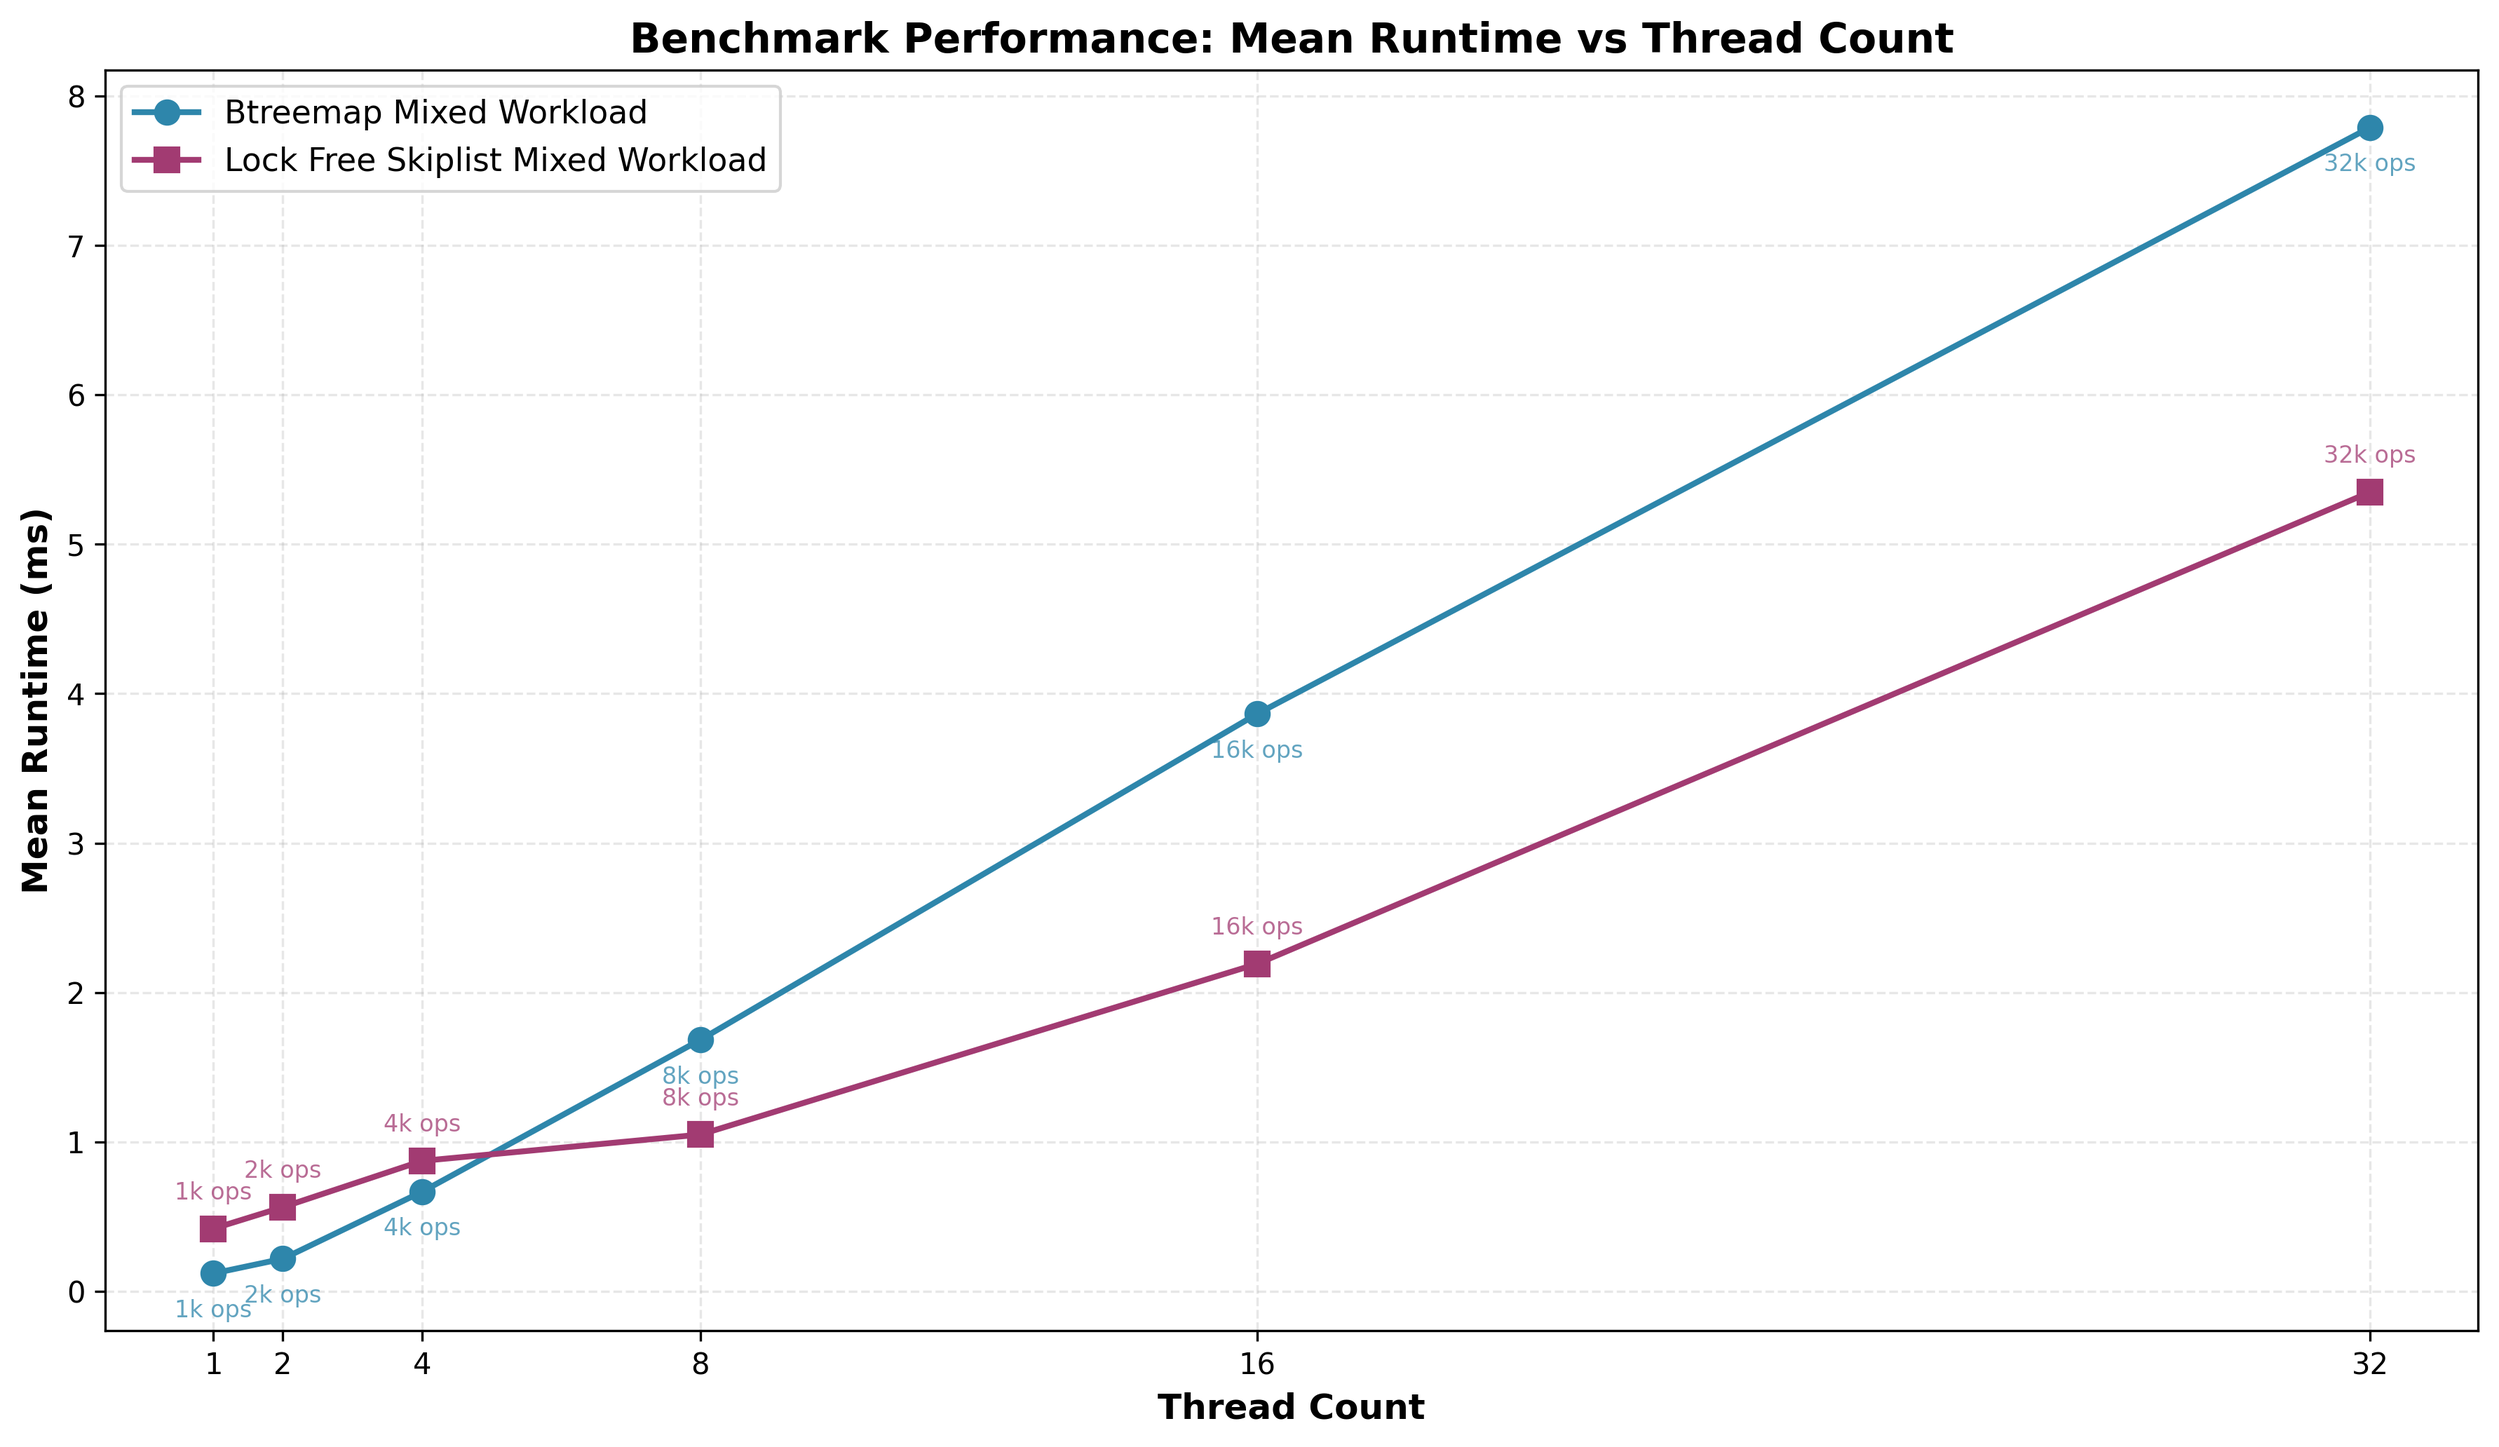
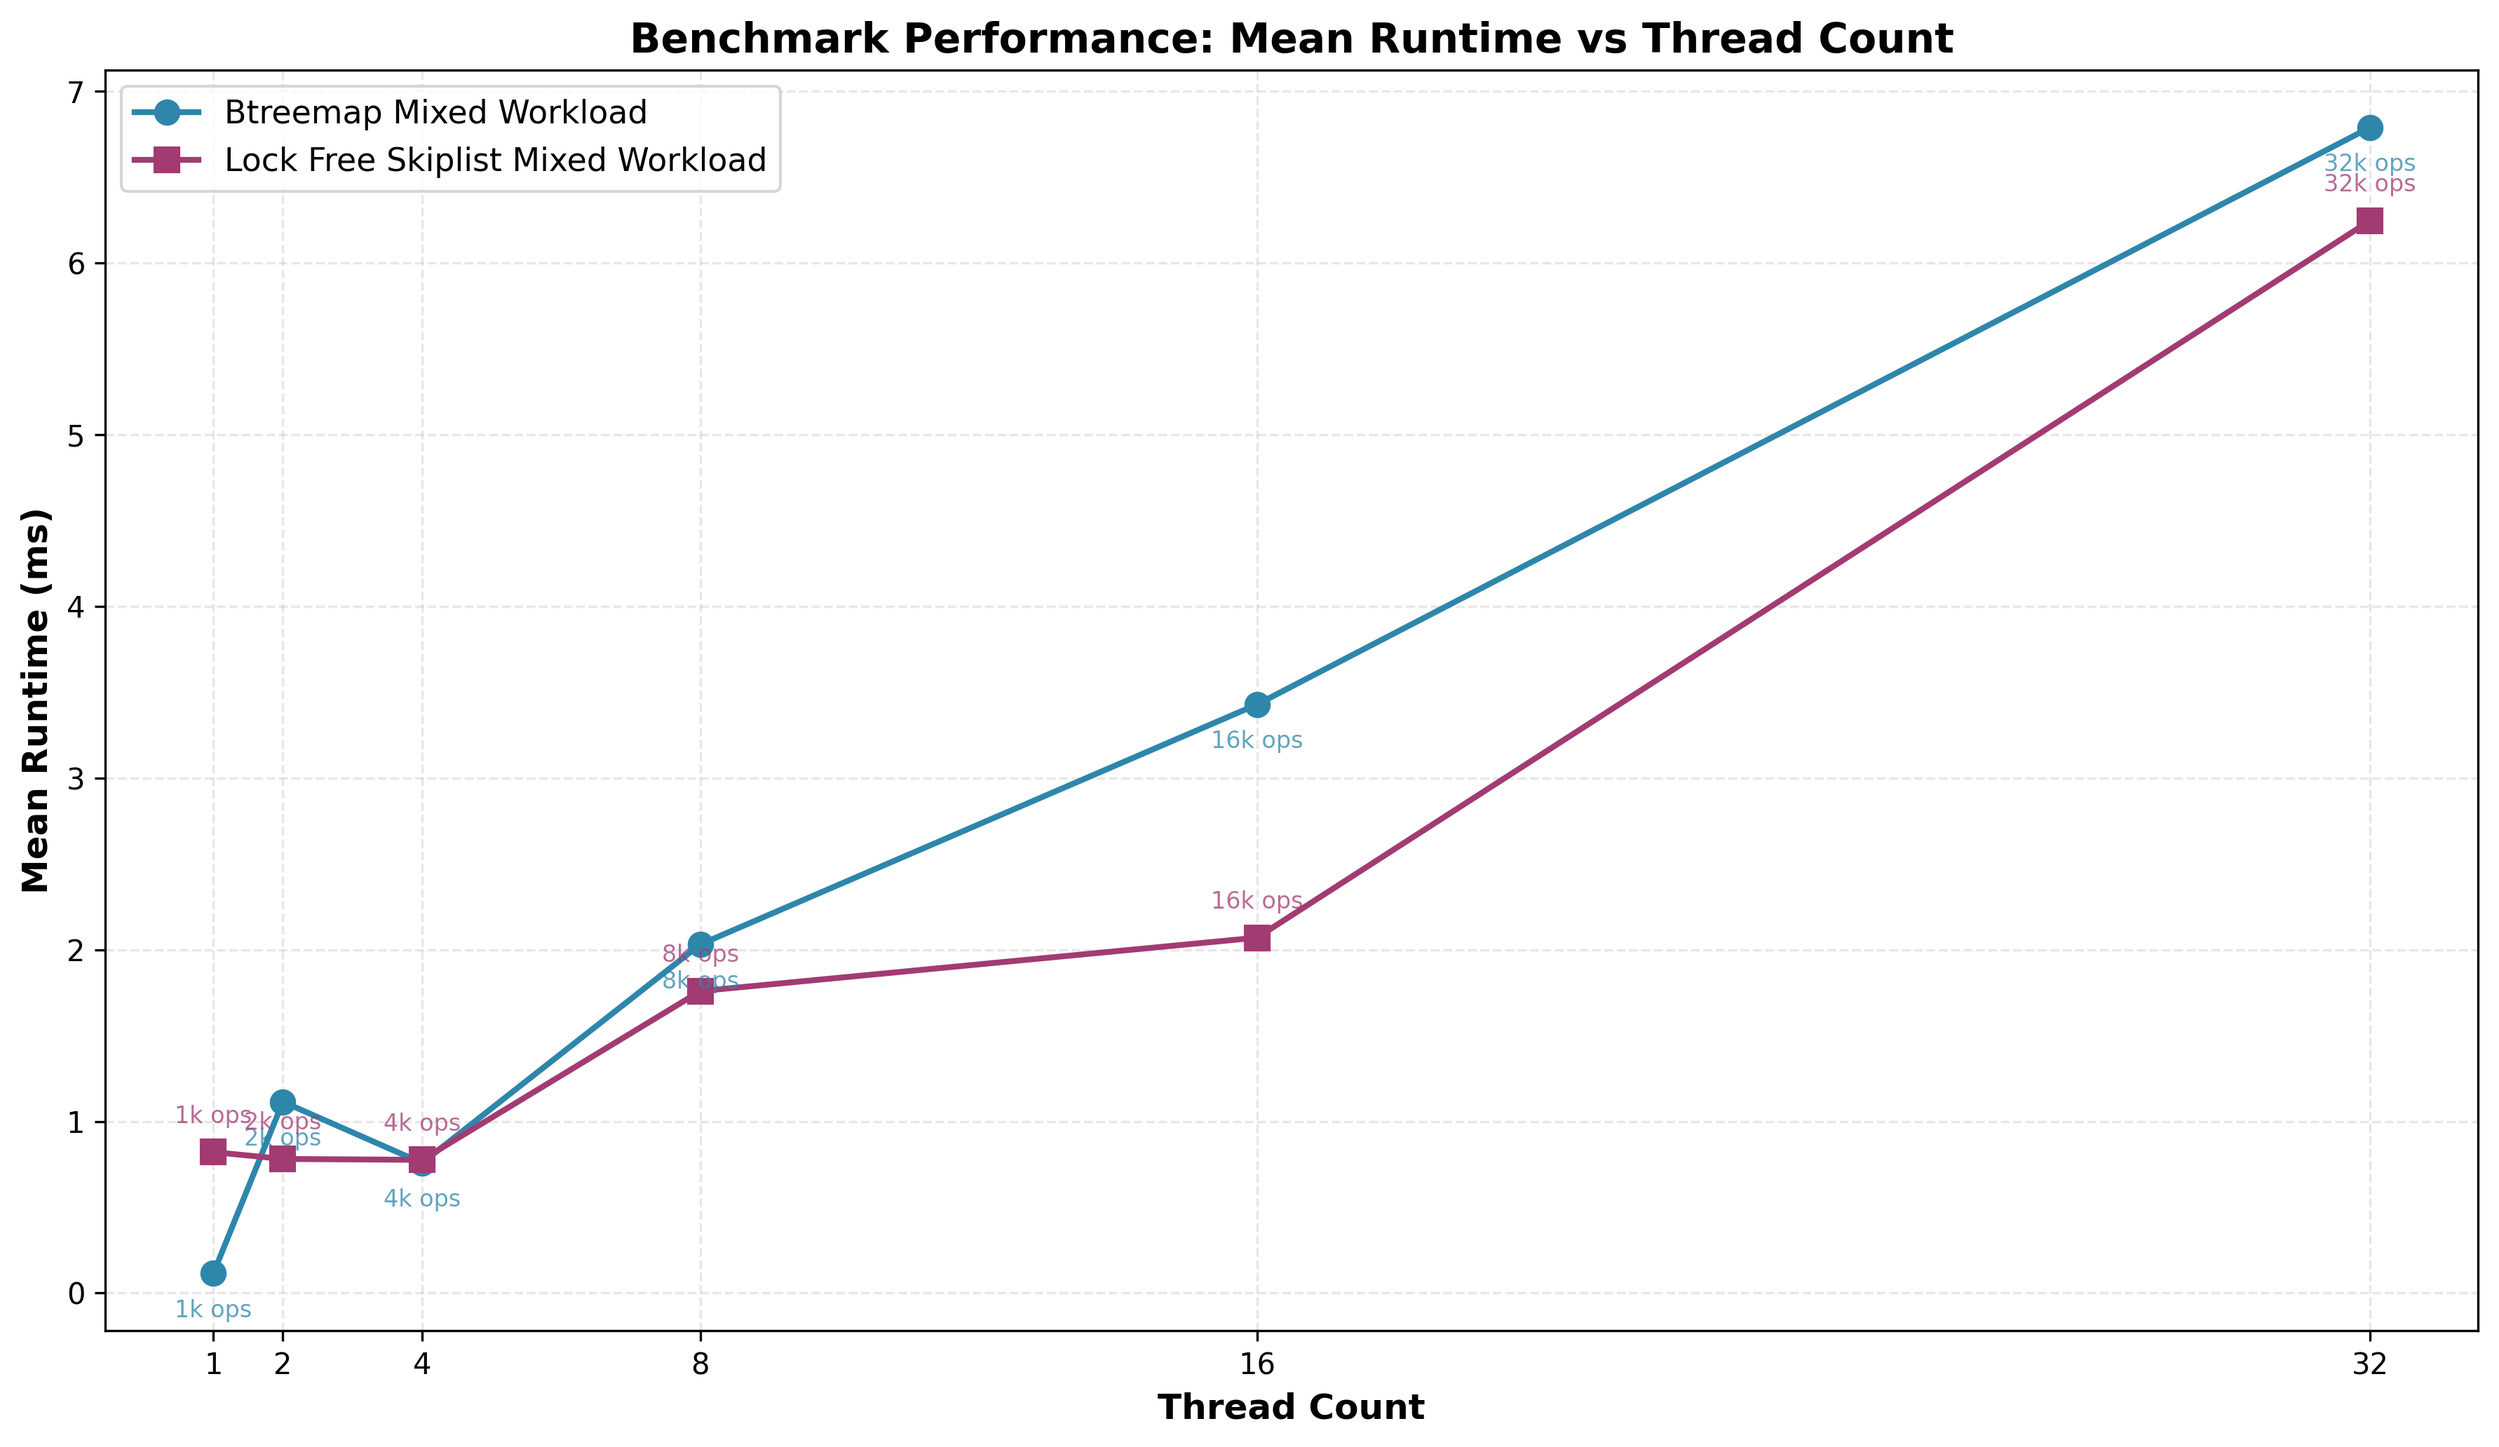
feat: add more benchmarking info

diff --git a/benches/graph/main.py b/benches/graph/main.py
@@ -56,7 +56,7 @@ def parse_benchmarks(text):
 
 if __name__ == '__main__':
     os.chdir("../..")
-    data = run("cargo bench --package skiplist-rs", capture_output=True, shell=True, text=True)
+    data = run("cargo bench --profile release", capture_output=True, shell=True, text=True)
 
     results = parse_benchmarks(data.stdout)
 

diff --git a/README.md b/README.md
@@ -30,6 +30,19 @@ Run benchmarks
 cargo bench --package skiplist-rs
 ```
 
-Performance compared to `std::collections::BtreeMap` in a multi-threaded environment
+Performance compared to `std::collections::BtreeMap` in a multi-threaded environment (lower is better).
+
+Hardware specifications
+
+```
+  Model name:                12th Gen Intel(R) Core(TM) i7-12700K
+    CPU family:              6
+    Model:                   151
+    Thread(s) per core:      2
+    Core(s) per socket:      12
+    Socket(s):               1
+```
 
 ![plot](benchmark_comparison.png)
+
+*performance may vary depending on hardware*
